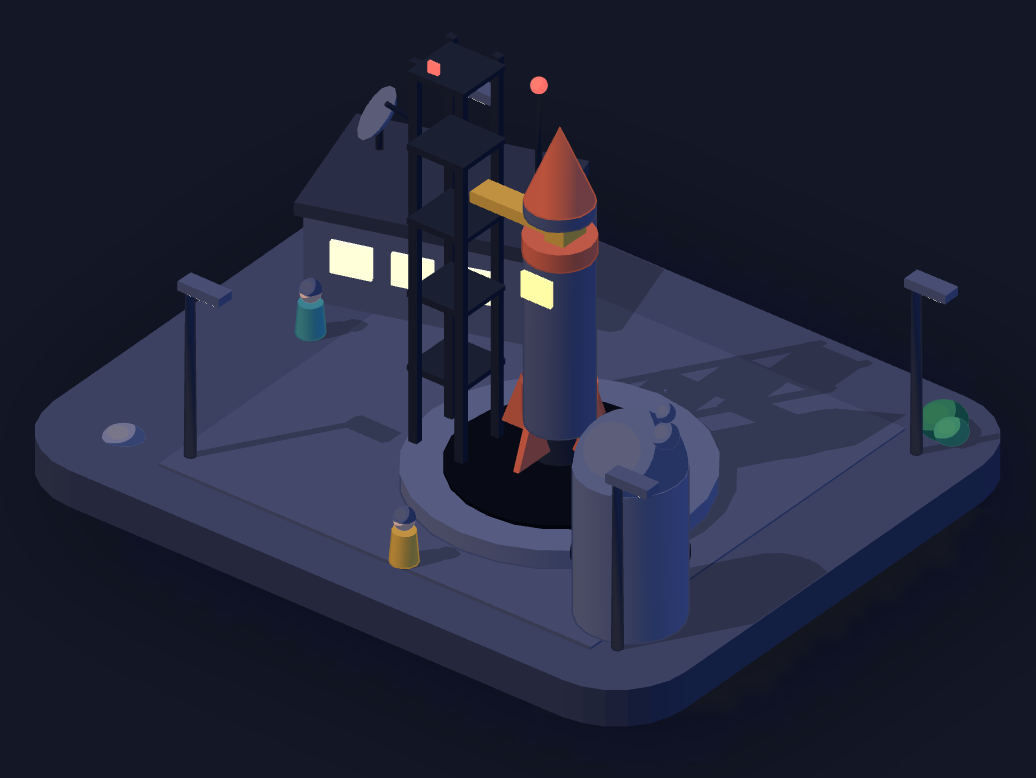
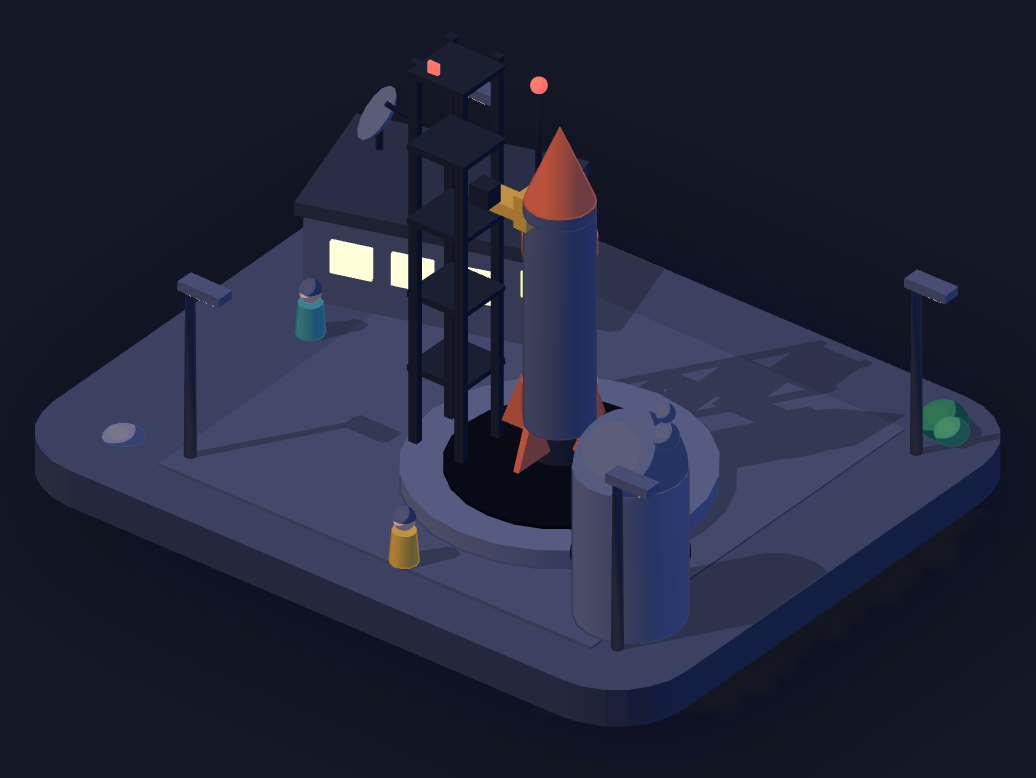
Fix the shallow clashes, a changelog and a release workflow
Examples: the mailbox door hangs down instead of folding into the body;
the forklift driver stands on the deck; the gantry arm reaches the
rocket's surface from a bracket outside the frame; powder's rope hangs
higher, the pylon bars sit above the riders, the top pad lies in the
snow and the queue waits further from the rope; cafe hangs a sign under
the awning that swings, so the line theme shows motion too.

CHANGELOG.md in Keep a Changelog form with 1.0.0 and 0.1.0; a Release
workflow that publishes the GitHub release from the changelog section
when a v* tag is pushed; a Releases section in the README; the site at
1.0.0; SKILL.md counts eighteen examples. Media regenerated.

Claude-Session: https://claude.ai/code/session_01275VMmUHn5DVDeuKhER2b6

Changed region(s): [[0.4324, 0.2159, 0.5869, 0.401]]

diff --git a/examples/powder.js b/examples/powder.js
@@ -32,15 +32,15 @@ Diorama.figure({
     [[2.6, -1.2, .7], [3.4, 2.2, .6], [1.6, 2.8, .5], [4.4, -2.0, .8]].forEach(function (q, k) { var p = W.apply(null, P(q[0], q[1])), r = D.props.rock(p[0], p[1], null, { r: q[2], h: q[2] * 1.2, yaw: k * 2 }); r.position.y = hgt(p[0], p[1]) - .15; });
     /* the chairlift, built in its own frame: x runs down the fall line, z across it */
     var lift = D.group(C[0], 0, C[1]); lift.rotation.y = aU;
-    var xT = 2.4, xB = 12, yB = 1.8, yT = H * (1 - xT / R) + yB, Lc = Math.hypot(xB - xT, yT - yB), rr = .7, L = 2 * Lc + 2 * Math.PI * rr;
+    var xT = 2.4, xB = 12, yB = 2.05, yT = H * (1 - xT / R) + yB, Lc = Math.hypot(xB - xT, yT - yB), rr = .7, L = 2 * Lc + 2 * Math.PI * rr;
     [-rr, rr].forEach(function (z) { var c = D.box(Lc, .04, .04, pal.ink, (xT + xB) / 2, (yT + yB) / 2, z, lift, { shadow: false }); c.rotation.z = -Math.atan2(yT - yB, xB - xT); });
     [5.4, 8.7].forEach(function (x) {
       var base = H * (1 - x / R), top = yB + (yT - yB) * (xB - x) / (xB - xT) + .2;
-      D.cyl(.12, .18, top - base, pal.steel, x, (top + base) / 2, 0, lift, 10); D.box(.24, .18, 2.0, pal.ink, x, top, 0, lift);
-      D.cyl(.12, .12, .1, pal.slate, x, top + .12, -rr, lift, 10); D.cyl(.12, .12, .1, pal.slate, x, top + .12, rr, lift, 10);
+      D.cyl(.12, .18, top + .15 - base, pal.steel, x, (top + .15 + base) / 2, 0, lift, 10); D.box(.24, .18, 2.0, pal.ink, x, top + .15, 0, lift);
+      D.cyl(.12, .12, .1, pal.slate, x, top + .27, -rr, lift, 10); D.cyl(.12, .12, .1, pal.slate, x, top + .27, rr, lift, 10);
     });
     var top = D.group(xT, H * (1 - xT / R) - .45, 0, lift);
-    D.box(2.2, .3, 1.8, pal.mist, -.4, .15, 0, top); D.box(1.6, 1.6, 1.4, pal.wood, -.3, .9, -2.3, top); D.wedge(1.9, .7, 1.8, pal.accent, -.3, 1.7, -2.3, top);
+    D.box(1.9, .3, 1.8, pal.mist, -.55, -.1, 0, top); D.box(1.6, 1.6, 1.4, pal.wood, -.3, .9, -2.3, top); D.wedge(1.9, .7, 1.8, pal.accent, -.3, 1.7, -2.3, top);
     D.cyl(.12, .12, yB + .65, pal.steel, 0, (yB + .65) / 2, 0, top, 8); D.cyl(.8, .8, .12, pal.accent, 0, yB + .45, 0, top, 20);
     var station = D.group(xB, 0, 0, lift); station.name = 'lift station'; hot.push(station);
     D.box(3.4, .12, 3.2, pal.mist, .3, .06, 0, station); D.box(1.2, 2.0, 2.2, pal.wood, 1.75, 1.3, 0, station); D.wedge(1.6, .8, 2.6, pal.accent, 1.75, 2.3, 0, station);
@@ -71,10 +71,10 @@ Diorama.figure({
     }
     function run(pts) { var q = [W(xT, rr)]; pts.forEach(function (p) { q.push(W.apply(null, P(p[0], p[1]))); }); q.push(W(xB, 3.4), W(xB, 1.9), W(xB, rr)); return D.path(q, false, .6); }
     var skiers = [
-      { g: skier(pal.mustard, pal.coral), p: run([[3.5, .5], [4.9, .95], [6.4, .55], [7.9, 1.0], [9.4, .62], [10.6, .78]]), off: 0 },
-      { g: skier(pal.plum, pal.paper), p: run([[3.7, .38], [5.2, 1.1], [6.8, .7], [8.4, 1.15], [9.8, .8], [10.9, .98]]), off: .5 }
+      { g: skier(pal.mustard, pal.coral), p: run([[3.8, .5], [4.9, .95], [6.4, .55], [7.9, 1.0], [9.4, .62], [10.6, .78]]), off: 0 },
+      { g: skier(pal.plum, pal.paper), p: run([[4.0, .38], [5.2, 1.1], [6.8, .7], [8.4, 1.15], [9.8, .8], [10.9, .98]]), off: .5 }
     ];
-    skiers.forEach(function (s) { s.q = s.p.length - (1.9 - rr); });
+    skiers.forEach(function (s) { s.q = s.p.length - (2.3 - rr); });
     /* a rider on the chairs going up between the skiers, always aboard */
     var riders = [skier(pal.teal, pal.mustard), skier(pal.rose, false)];
 

diff --git a/examples/cafe.js b/examples/cafe.js
@@ -27,6 +27,7 @@ Diorama.figure({
     [-1.55, 1.55].forEach(function (x) { D.cyl(.05, .05, 2.3, pal.ink, x, 2.6, -.6, cart, 8); });
     for (var k = 0; k < 7; k++) D.box(.55, .06, 1.9, k % 2 ? pal.paper : pal.accent, -1.65 + k * .55, 3.72, -.1, cart, { shadow: k === 0 });
     D.box(3.9, .08, .12, pal.ink, 0, 3.7, .85, cart);
+    var sign = D.group(-1.1, 3.66, .85, cart); D.box(.04, .2, .04, pal.ink, 0, -.1, 0, sign, { shadow: false }); D.box(.8, .45, .05, pal.paper, 0, -.42, 0, sign); D.box(.5, .07, .05, pal.ink, 0, -.36, .03, sign, { shadow: false }); D.box(.3, .07, .05, pal.ink, 0, -.5, .03, sign, { shadow: false });
     var machine = D.box(.9, .7, .6, pal.steel, .9, 2.1, -.3, cart); D.box(.3, .12, .3, pal.mustard, .9, 2.5, -.3, cart);
     D.cyl(.1, .1, .3, pal.ink, .9, 1.9, .15, cart, 8);
     var cups = []; [[-1.1, -.3], [-.7, -.3], [-.3, -.3]].forEach(function (c) { var g = D.group(c[0], 1.75, c[1], cart); D.cyl(.14, .11, .26, pal.paper, 0, .13, 0, g, 12); D.cyl(.15, .15, .04, pal.ink, 0, .28, 0, g, 12); cups.push(g); });
@@ -52,7 +53,7 @@ Diorama.figure({
     /* the customer and the cup they carry */
     var cust = D.props.person(0, 0, null, { shirt: pal.plum, hat: false }); var hand = D.group(.22, .4, 0, cust); var held = D.cyl(.12, .1, .22, pal.paper, 0, 0, 0, hand, 10); held.visible = false;
     var walk = D.path([[4.6, 2.6], [1.2, 2.6], [-.3, .9]]);
-    return { hot: hot, cups: cups, steam: steam, tail: tail, cust: cust, held: held, walk: walk, lift: {} };
+    return { hot: hot, cups: cups, steam: steam, tail: tail, sign: sign, cust: cust, held: held, walk: walk, lift: {} };
   },
   tick: function (ctx) {
     var D = ctx.D, p = ctx.parts, t = ctx.t;
@@ -68,6 +69,7 @@ Diorama.figure({
     var steamOn = T >= 1 && T < 6;
     p.steam.forEach(function (b, k) { var u = D.phase(t, 1.6, k * .33); b.position.y = 2.6 + u * .9; b.scale.setScalar(steamOn ? (.6 + u) * (1 - u) * 1.6 : .001); b.position.x = .9 + .12 * D.wave(t, 1.1, k * .3); });
     p.tail.rotation.z = .5 + .35 * D.wave(t, 2.2) + .1 * D.wave(t, .9);
+    p.sign.rotation.z = .14 * D.wave(t, 2.7) + .05 * D.wave(t, 1.1);
     p.hot.forEach(function (g) {
       var s = p.lift[g.id] || (p.lift[g.id] = D.spring(120, 18)); s.t = ctx.hover === g ? .3 : 0; s.step(ctx.dt); g.position.y = s.x;
     });

diff --git a/examples/launchpad.js b/examples/launchpad.js
@@ -38,7 +38,7 @@ Diorama.figure({
     var gantry = D.group(-.6, 0, .6); gantry.name = 'gantry'; hot.push(gantry);
     [[-.4, -.4], [.4, -.4], [-.4, .4], [.4, .4]].forEach(function (p) { D.box(.12, 6.2, .12, pal.steel, p[0], 3.1, p[1], gantry); });
     [1.2, 2.4, 3.6, 4.8, 6.0].forEach(function (y) { D.box(.95, .08, .95, pal.steel, 0, y, 0, gantry); });
-    var arm = D.group(.4, 4.2, 0, gantry); D.box(1.6, .16, .4, pal.mustard, .8, 0, 0, arm); D.box(.3, .5, .5, pal.mustard, 1.5, .1, 0, arm);
+    D.box(.3, .3, .3, pal.steel, .5, 4.2, 0, gantry); var arm = D.group(.6, 4.2, 0, gantry); D.box(.7, .16, .4, pal.mustard, .35, 0, 0, arm); D.box(.2, .5, .5, pal.mustard, .7, .1, 0, arm);
     var beacon = D.box(.16, .16, .05, pal.bad, 0, 6.3, .5, gantry, { mat: { emissive: pal.bad, emissiveIntensity: 1.5 }, shadow: false });
     /* the tank and the bunker */
     var tank = D.group(4.0, 0, 2.6); D.cyl(.8, .8, 2.4, pal.cloud, 0, 1.2, 0, tank, 18); D.dome(.8, pal.cloud, 0, 2.4, 0, tank); D.cyl(.82, .82, .15, pal.steel, 0, 1.0, 0, tank, 18);

diff --git a/examples/rack.js b/examples/rack.js
@@ -41,7 +41,7 @@ Diorama.figure({
     [-.32, .32].forEach(function (z) { D.box(.1, 3.4, .1, pal.slate, .74, 1.8, z, fl); });
     var beacon = D.box(.16, .12, .16, pal.warn, -.4, 2.31, 0, fl, { mat: { emissive: pal.flame, emissiveIntensity: .2 }, shadow: false });
     [[.45, .3], [-.62, .26]].forEach(function (p) { [-.52, .52].forEach(function (z) { D.wheel(p[1], .22, pal.tyre, p[0], p[1], z, fl); }); });
-    var driver = D.props.person(-.2, 0, fl, { shirt: pal.teal }); driver.position.y = .55;
+    var driver = D.props.person(-.2, 0, fl, { shirt: pal.teal }); driver.position.y = .85;
     var head = driver.children[3];
     var carriage = D.group(.8, .1, 0, fl);
     D.box(.07, .6, .82, pal.steel, 0, .3, 0, carriage);

diff --git a/examples/mailbox.js b/examples/mailbox.js
@@ -38,7 +38,7 @@ Diorama.figure({
   },
   tick: function (ctx) {
     var D = ctx.D, p = ctx.parts, t = ctx.t;
-    p.door.rotation.z = -1.25 + .06 * D.wave(t, 3.2);
+    p.door.rotation.z = 1.9 + .06 * D.wave(t, 3.2);
     var check = D.smooth(D.pulse(t, 7, .36));
     p.flag.rotation.z = D.lerp(.2, 1.45, check) + .04 * D.wave(t, 1.3);
   }

diff --git a/CHANGELOG.md b/CHANGELOG.md
@@ -1,0 +1,49 @@
+# Changelog
+
+All notable changes to Diorama are listed here. The format follows [Keep a Changelog](https://keepachangelog.com/en/1.1.0/), the versions follow [Semantic Versioning](https://semver.org/spec/v2.0.0.html), and every version is a [release on GitHub](https://github.com/educlopez/diorama/releases) with the same notes.
+
+## [Unreleased]
+
+## [1.0.0] - 2026-10-19
+
+### Added
+
+- A renderer of the kernel's own: the figures draw as SVG, with no three.js, no WebGL and nothing to load. A small scene graph (groups, meshes, materials, vectors, matrices), an orthographic isometric camera fitted to the scene, one flat tone per face from the sun, the fill and the sky, a disc and a crescent for a sphere, a gradient across the side of a cylinder or a cone, shadows thrown along the sun onto the slabs, a soft halo under the base, and ink edges that can be drawn by hand (`wobble`).
+- A `print` theme: flat tones per face and ink lines, a printed illustration.
+- A press: `ctx.pressed`, `ctx.active` and `ctx.tap(x, y)`, so a tap on a phone answers like a hover does; a read-out line (`ctx.read`) the bench and the host can show; `D.apart` for things that come apart under the pointer; an aria label on the mount.
+- `{ on: wall }` on a primitive paints it right after what it is set into (a window in a wall, a door on a cabinet).
+- Five examples: `harbour` (hero), `kitchen` (card), `assembly` (card, mono), `observatory` (mini, line, hand-drawn) and `vending` (mini, print); eighteen in all.
+- The look script's sheet of nine pictures (rest, three seconds of the loop, the pointer, the corner, a press, the thumbnail, the page), with measurements of fill, motion, the pointer's answer and the press, and a clash check that finds moving parts passing through others.
+- The bench's accent swatches, `?theme=&accent=` and a live read-out.
+
+### Changed
+
+- The painter's order: pieces sort far-first by depth, then every pair that overlaps on the page and has an axis plane between them paints in the order the plane says, so a counter stays in front of a tall wall and a window stays on it.
+- The hand-drawn ink bows a whole stroke slowly instead of sawing each short piece, so rings and domes waver like a pen line.
+- Every example paints its subject with `pal.accent`, the colour a brand hex replaces; `launchpad` comes apart on hover and launches on a tap with a countdown read-out.
+- The docs: `SKILL.md`, `references/craft.md` (insides are built as shells, never buried in a solid), `references/look.md`, `references/motion.md`, `references/react.md`, the README gallery and the site, for eighteen figures and six themes.
+
+### Removed
+
+- `kit/three.min.js`, the three-lite build and its minifier, and the `--lite` flag of the build.
+
+### Fixed
+
+- The mailbox's door opened into its body instead of hanging down.
+- The forklift's driver sat inside the body of the truck.
+- The launchpad's gantry arm went through the rocket and through a leg of the gantry.
+- Shallow clashes in `powder`: the skier stepping off the chair against the top platform, a chair rider against the skier waiting to board.
+
+## [0.1.0] - 2026-10-17
+
+### Added
+
+- The skill: `SKILL.md` with the size and concept, build, check, hand over and adjust steps, and the table of what goes wrong; `references/` for the craft rules, the concepts, the motion helpers, the look and the React drop-in.
+- The kernel on three.js with the isometric camera, the primitives, the props, the clock helpers, the pointer, six themes (`toy`, `soft`, `mono`, `line`, `night`, and a `print` in the making) and the rounded base.
+- Thirteen examples across three sizes: `town`, `island`, `farm`, `warehouse`, `powder` (hero), `cafe`, `launchpad`, `server`, `rack` (card), `mailbox`, `seedling`, `desk`, `turntable` (mini).
+- `bench.html` and the scripts: `build.mjs`, `validate.mjs` with ten checks, `look.mjs` in headless Chromium; the three-lite build.
+- The site at diorama.educalvolopez.com with the gallery, the docs, `llms.txt` and the launch videos; the identity check on every commit.
+
+[Unreleased]: https://github.com/educlopez/diorama/compare/v1.0.0...HEAD
+[1.0.0]: https://github.com/educlopez/diorama/compare/v0.1.0...v1.0.0
+[0.1.0]: https://github.com/educlopez/diorama/releases/tag/v0.1.0

diff --git a/SKILL.md b/SKILL.md
@@ -9,7 +9,7 @@ metadata:
 
 # Diorama: a small world that moves
 
-You are making one diorama: a scene built from blocks on a rounded base, seen from an isometric camera, with a few things that move on their own and answer the pointer, drawn in a theme. The default theme, `toy`, is pastel blocks, one warm sun, soft shadows, every object a handful of boxes and cylinders, nothing textured, cheerful and readable at a glance. The same scene file draws in `soft` (cream, gentler), `mono` (one accent, the rest tints of ink), `line` (a hairline drawing: white fills, ink edges, no shadows), `print` (flat tones per face and ink lines, a printed illustration) and `night` (dusk, lamps on), and every theme field can be overridden: `wobble` draws the ink by hand, `halo` is the soft shadow the base throws on the page, `accent` is the subject's colour in every theme. The thirteen examples in `examples/` are the bar, and they are in the format you will write.
+You are making one diorama: a scene built from blocks on a rounded base, seen from an isometric camera, with a few things that move on their own and answer the pointer, drawn in a theme. The default theme, `toy`, is pastel blocks, one warm sun, soft shadows, every object a handful of boxes and cylinders, nothing textured, cheerful and readable at a glance. The same scene file draws in `soft` (cream, gentler), `mono` (one accent, the rest tints of ink), `line` (a hairline drawing: white fills, ink edges, no shadows), `print` (flat tones per face and ink lines, a printed illustration) and `night` (dusk, lamps on), and every theme field can be overridden: `wobble` draws the ink by hand, `halo` is the soft shadow the base throws on the page, `accent` is the subject's colour in every theme. The eighteen examples in `examples/` are the bar, and they are in the format you will write.
 
 You write one thing: the figure, a `.js` file. The kernel (`kit/diorama.js`) and the page (`bench.html`) are fixed. Never edit them, never paste a changed copy, and never write again what the kernel already gives you (a camera, lights, shadows, a loop that sleeps offscreen, a pointer, springs, paths, props).
 

diff --git a/README.md b/README.md
@@ -173,6 +173,10 @@ node ~/.claude/skills/diorama/scripts/look.mjs mailbox.js             # the shee
 
 Build any of them with `node scripts/build.mjs examples/<name>.js`.
 
+## Releases
+
+Every version is a tag and a [release on GitHub](https://github.com/educlopez/diorama/releases) with its notes, and [`CHANGELOG.md`](CHANGELOG.md) keeps them all. Watch the repository for releases to hear about the next one.
+
 ## How it works
 
 - `SKILL.md` is the skill: size and concept, build, check, hand over, adjust, and the table of what goes wrong.
